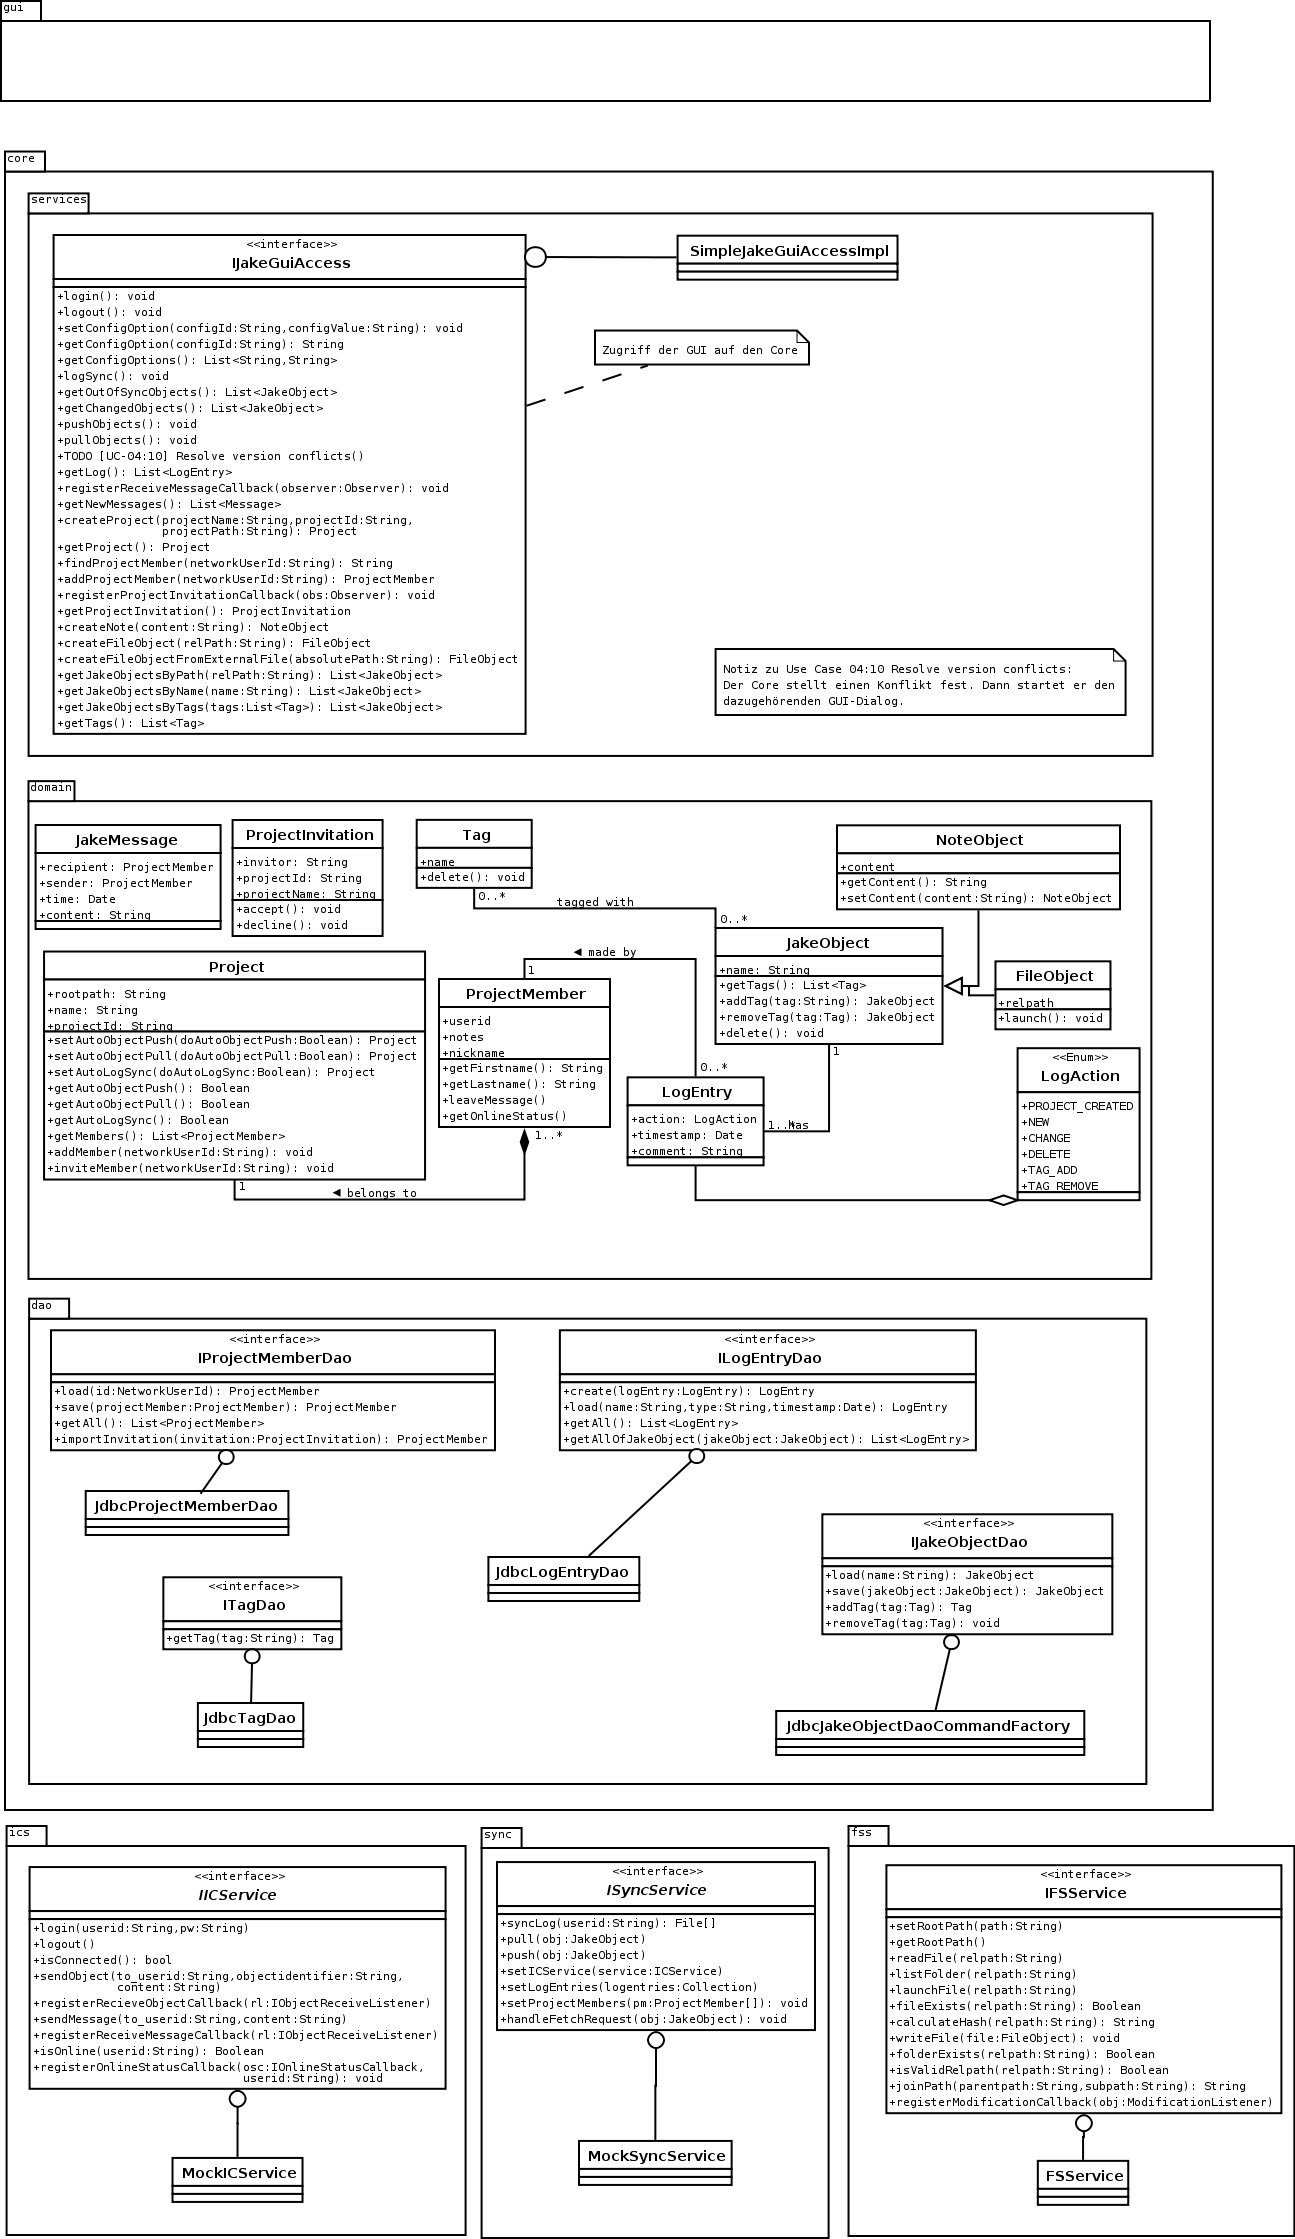
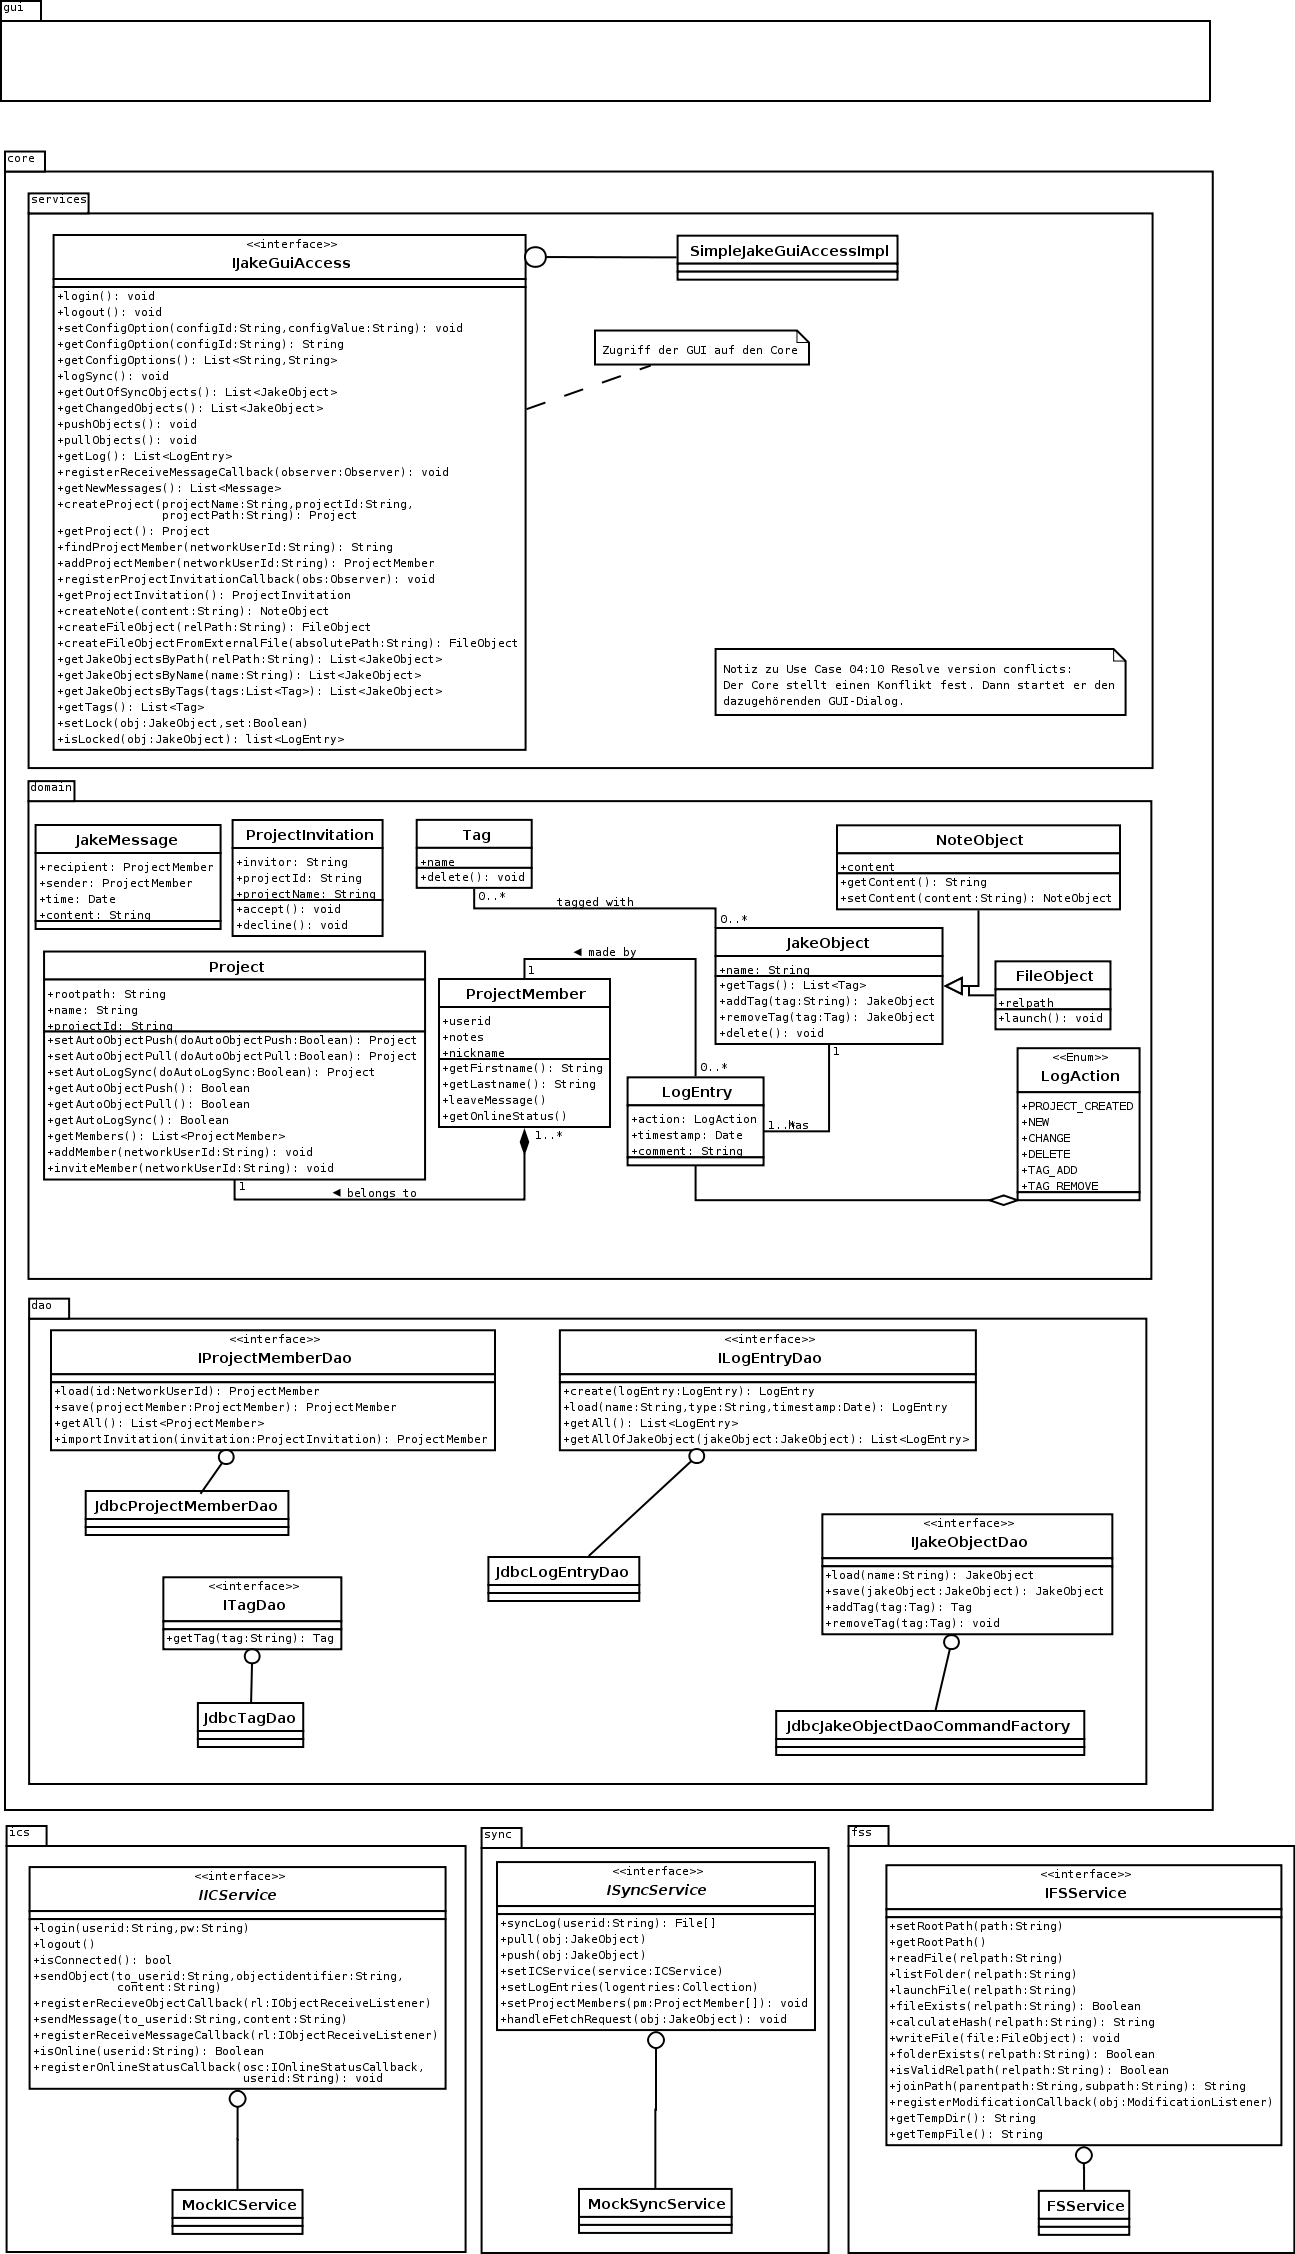
added locks added temporary file/dir operations
git-svn-id: svn://svn.jakeapp.com/trunk@229 cfed719c-3465-4289-a5de-482d64f03f8e

Changed region(s): [[0.0, 0.0616, 1.0, 1.0], [0.4324, 0.9553, 0.5869, 1.0], [0.3707, 0.678, 0.4942, 0.7396]]

diff --git a/fss/src/main/java/com/doublesignal/sepm/jake/fss/IFSService.java b/fss/src/main/java/com/doublesignal/sepm/jake/fss/IFSService.java
@@ -1,6 +1,7 @@
 package com.doublesignal.sepm.jake.fss;
 
 import java.io.IOException;
+import java.io.*;
 
 /**
  * The file system service ought to provide a operating system
@@ -58,11 +59,11 @@ public interface IFSService {
 	public Boolean isValidRelpath(String relpath);
 	
 	/**
-	 * Concatinates the rootpath and the relpath together and
+	 * Concatinates the parentpath and the relpath together and
 	 * converts to the right path seperator
 	 * @return a absolute path usable to the OS
 	 */
-	public String joinPath(String rootPath, String relpath);
+	public String joinPath(String parentpath, String relpath);
 	
 	/**
 	 * Launches the associated application and returns (i.e. does not wait for 
@@ -111,5 +112,17 @@ public interface IFSService {
 	 */
 	public Boolean writeFile(String relpath, String content) 
 		throws InvalidFilenameException, IOException;
-
+	
+	
+	/**
+	 * @return a temporary directory
+	 */
+	public String getTempDir() 
+		throws IOException;
+	
+	/**
+	 * @return the path to a new temporary file that can be written to
+	 */
+	public String getTempFile()
+		throws IOException;
 }
